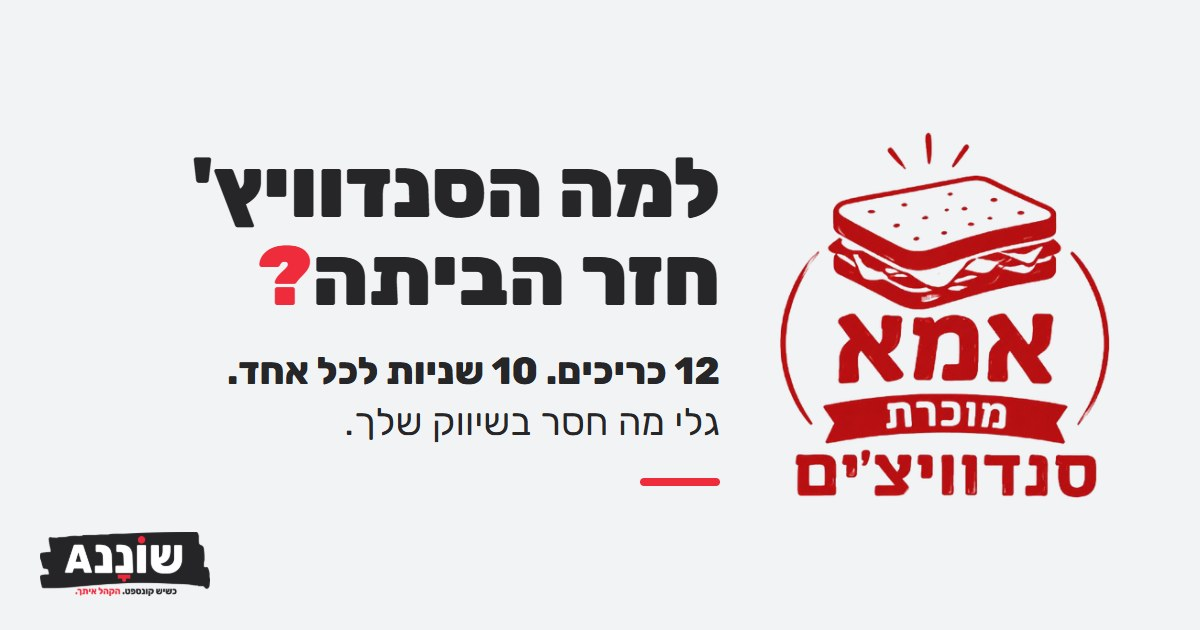
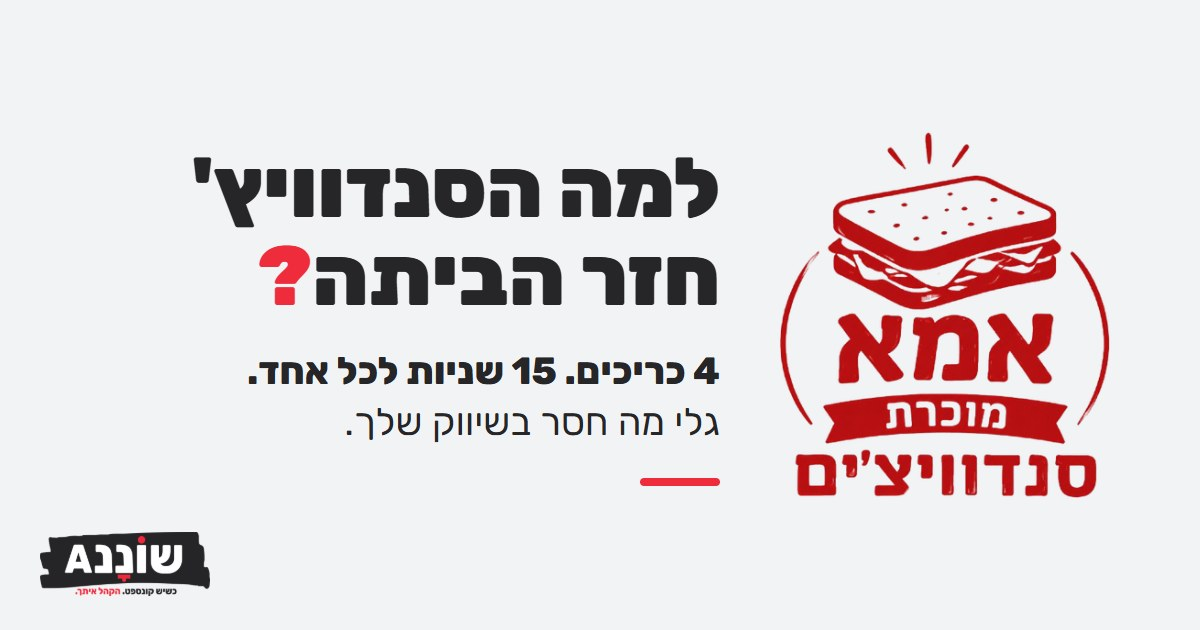
Short game: 4 sandwiches, one per ingredient, 15 seconds each

Changed region(s): [[0.185, 0.5429, 0.6167, 0.6333]]

diff --git a/game/index.html b/game/index.html
@@ -5,7 +5,7 @@
 <base href="/game/">
 <meta name="viewport" content="width=device-width, initial-scale=1, viewport-fit=cover">
 <meta property="og:title" content="למה הסנדוויץ' חזר הביתה?">
-<meta property="og:description" content="12 כריכים. 10 שניות לכל אחד. גלי מה חסר בשיווק שלך.">
+<meta property="og:description" content="4 כריכים. 15 שניות לכל אחד. גלי מה חסר בשיווק שלך.">
 <meta property="og:type" content="website">
 <meta property="og:url" content="https://shonana.co.il/game/">
 <meta property="og:image" content="https://shonana.co.il/game/og.jpg">
@@ -135,15 +135,15 @@ const SOURCE = (() => {
 const brush = () => `<svg viewBox="25 150 770 300" preserveAspectRatio="none" aria-hidden="true"><path d="${BRUSH}"/></svg>`;
 
 const NAMES = {relevance:'התאמה', promise:'הבטחה', presence:'נוכחות', attraction:'משיכה'};
-const ORDER = ['relevance','promise','presence','attraction'];
+const ORDER = ['promise','relevance','presence','attraction'];
 const PROFILES = {
   presence:  {title:'הכריך הנעלם', line:'יש לך מה להציע, אבל הקהל לא פוגש אותך ברגע שהוא צריך לבחור.', tip:'כתבי 3 רגעים שבהם הלקוחה שלך צריכה אותך. עכשיו בדקי: איפה היא נמצאת באותם רגעים? שם הכריך שלך צריך להיות.'},
   attraction:{title:'הכריך של כולם', line:'השירות שלך טוב, אבל הוא נראה כמו כל השאר ולא מעורר חשק.', tip:'קחי את הפוסט האחרון שלך ושאלי: למה שמישהי תעצור עליו באמצע הגלילה? אם אין תשובה, זה המקום להתחיל.'},
   promise:   {title:'כריך הפלא', line:'יש בו הכול, ובגלל זה לא ברור מה בדיוק מקבלים.', tip:'נסחי במשפט אחד מה הלקוחה מקבלת ממך. בלי "וגם". אם לא מצליח במשפט אחד, ההבטחה עוד לא חדה.'},
   relevance: {title:'הכריך של מישהו אחר', line:'ההצעה טובה, אבל היא לא מדברת אל האדם הנכון ואל מה שהוא צריך עכשיו.', tip:'כתבי משפט אחד: למי בדיוק השירות שלך, ובאיזה רגע בחיים שלה היא צריכה אותו. כל השאר נבנה מזה.'}
 };
-const CHEERS = {4:'שליש מהתיק כבר מאחורייך. ממשיכות.', 8:'עוד ארבעה כריכים, ויש לך תמונה מלאה.'};
-const SECONDS = 10;
+const CHEERS = {};
+const SECONDS = 15;
 
 let slides = [];
 let S = {screen:'entry', name:'', phone:'', consent:false, i:0, answers:[]};
@@ -156,7 +156,7 @@ function renderEntry(){
   app.innerHTML = `
     <img class="game-logo" src="game-logo.png" alt="אמא מוכרת סנדוויצ'ים">
     <h1 class="hero">למה הסנדוויץ'<br>חזר הביתה<span class="red">?</span></h1>
-    <p class="lede"><b>12 כריכים. 10 שניות לכל אחד.</b><br>תגלי מה יגרום ללקוחות לבחור בך!</p>
+    <p class="lede"><b>4 כריכים. 15 שניות לכל אחד.</b><br>תגלי מה יגרום ללקוחות לבחור בך!</p>
     <p class="gift">🎁 <b>מתנה! המתכון לסנדוויץ' השיווקי שלך</b></p>
     <button class="btn" id="go">יאלה, משחקים</button>
     <footer class="sign"><img src="logo.png" alt="שוננA"></footer>`;
@@ -234,12 +234,13 @@ function answer(k){
 function tally(){
   const t = Object.fromEntries(ORDER.map(k=>[k,0]));
   S.answers.forEach(a => { if(a.ok) t[a.ing]++; });
-  const weak = ORDER.reduce((m,k)=> t[k] < t[m] ? k : m, ORDER[0]);
-  const strong = ORDER.reduce((m,k)=> t[k] > t[m] ? k : m, ORDER[0]);
+  // one sandwich per ingredient: strongest is the first she got right, weakest the first she missed (either may be missing)
+  const weak = ORDER.find(k => !t[k]) || null;
+  const strong = ORDER.find(k => t[k]) || null;
   return {t, weak, strong, total: S.answers.filter(a=>a.ok).length};
 }
 function renderResult(){
-  const {t, weak, strong, total} = tally(), P = PROFILES[weak];
+  const {t, weak, strong, total} = tally(), P = PROFILES[weak] || {title:'הכריך המושלם'};
   const N = slides.length, per = k => slides.filter(s => s.ingredient === k).length;
   const sendFinish = () => { if(!S.finished){ S.finished = true; track('finish', {total, of:N, t, profile:P.title}); } };
   if(S.signed) sendFinish();
@@ -248,7 +249,7 @@ function renderResult(){
       <img class="game-logo small" src="game-logo.png" alt="אמא מוכרת סנדוויצ'ים">
       <h1 class="score">${S.signed ? esc(S.name) + ', ' : ''}ענית נכון על <b>${total}</b> מתוך ${N} כריכים</h1>
     </header>
-    <p class="chips"><span class="tag strong">הכי חזק: ${NAMES[strong]}</span><span class="tag weak">הכי חלש: ${NAMES[weak]}</span></p>
+    <p class="chips">${strong ? `<span class="tag strong">הכי חזק: ${NAMES[strong]}</span>` : ''}${weak ? `<span class="tag weak">הכי חלש: ${NAMES[weak]}</span>` : ''}</p>
     <section class="dare" id="gift" aria-label="המתנה"></section>
     <button class="again" id="again">לשחק שוב</button>
     <footer class="sign"><img src="logo.png" alt="שוננA"></footer>`;
